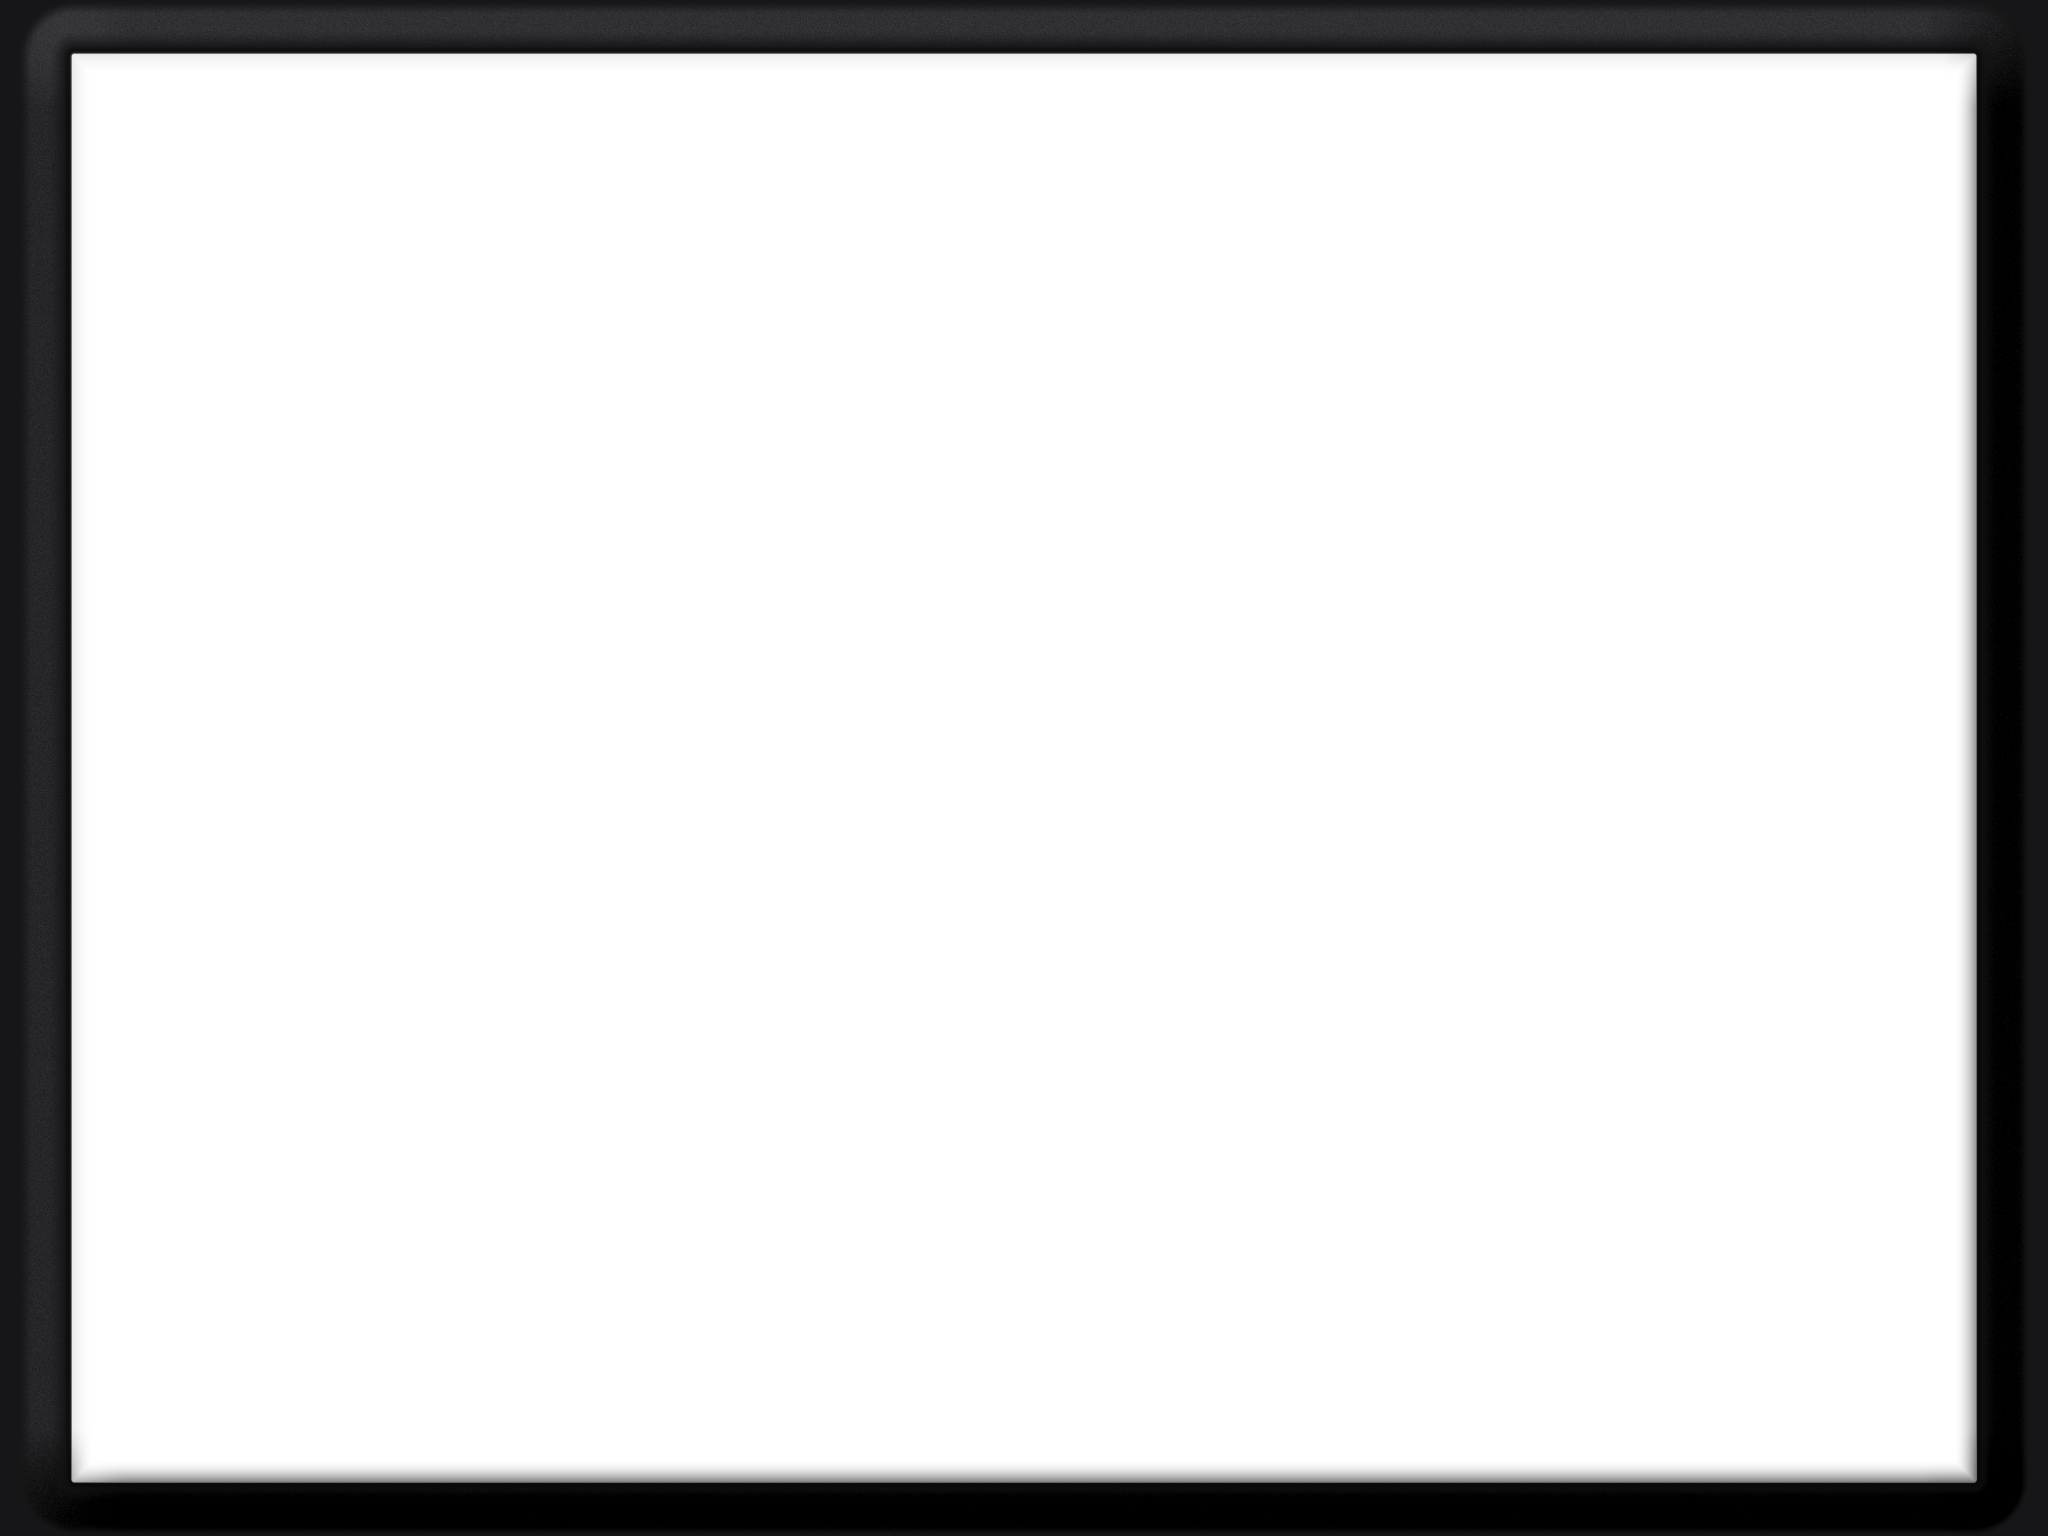
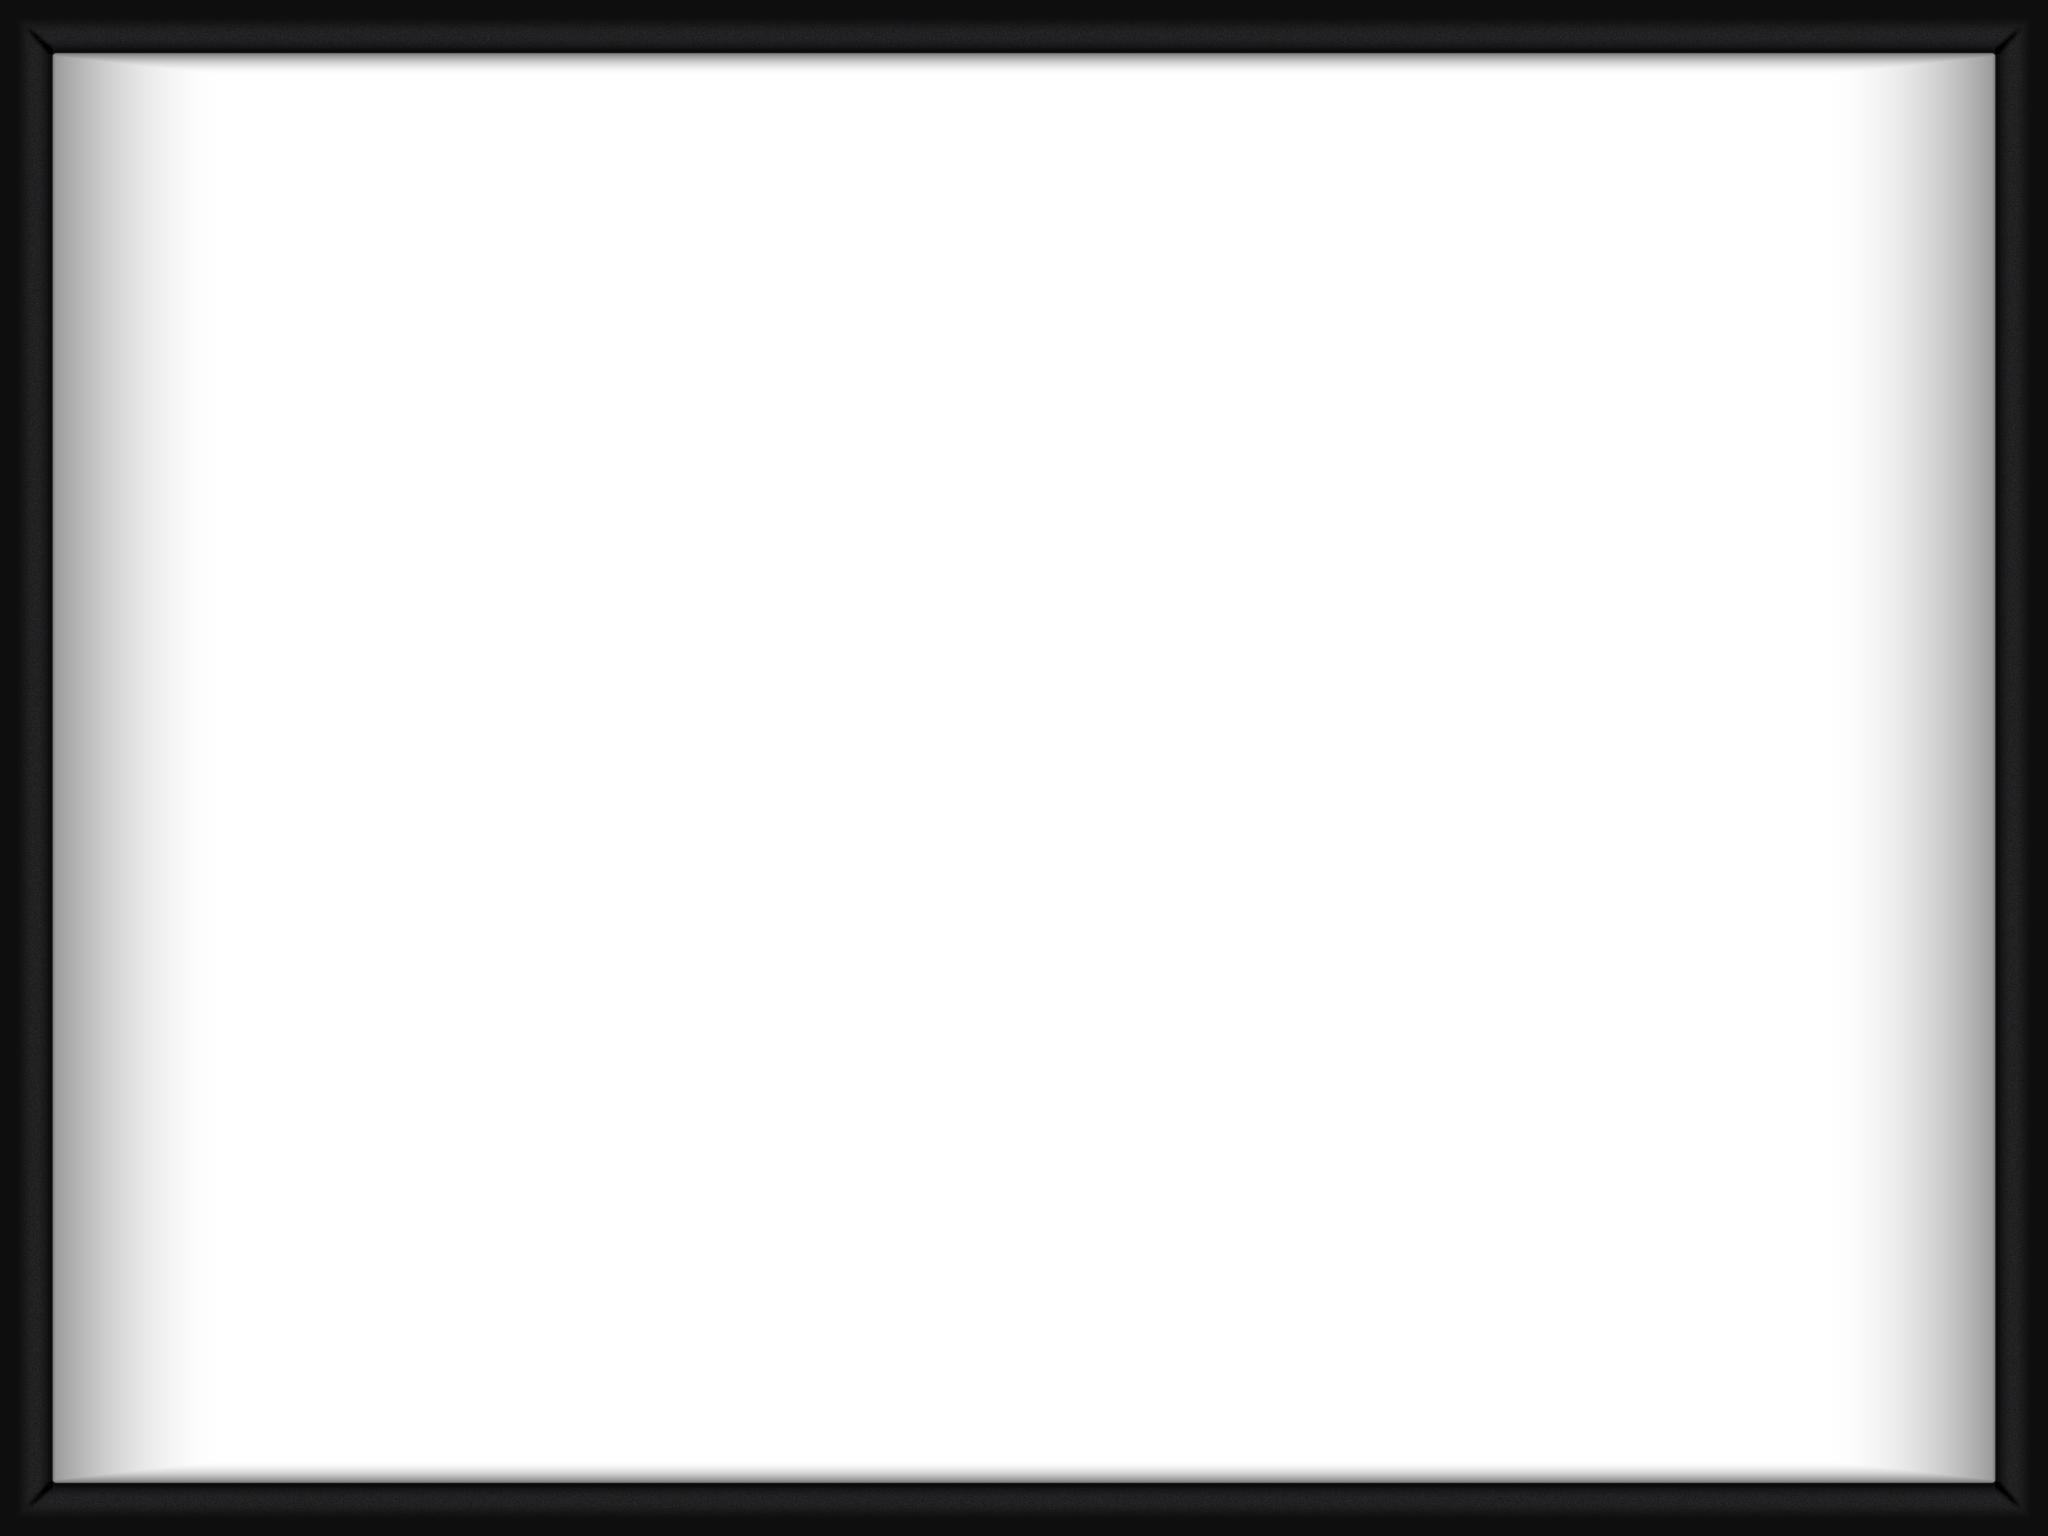
CRT bezel art: flat picture-frame + reflection edge-band fix (rt64 3e2f676)
- Regenerated assets/crt_bezel.png: uniform brightness, inner bevel slightly brighter than the outer frame, mitred-corner seam on the inner bevel only, true 90-degree inner-bevel corners (box-distance profile), asymmetric inset + wider L/R recess shadow for a deeper-set picture.
- Bumps rt64 to the reflection-band fix.
- RE-NOTES: art-refinement round + the outer-band reflection fix.

Changed region(s): [[0.0, 0.0, 1.0, 1.0]]

diff --git a/docs/RE-NOTES.md b/docs/RE-NOTES.md
@@ -1511,7 +1511,22 @@ an **overlay-image** bezel composited in the CRT present pass.
   the corners", "reflection not visible", "more diffuse". Change one thing,
   re-capture, confirm. Env `WR64_CRT_BEZEL=1` now force-ENABLES too (was 0-only)
   so autonomous runs can isolate it regardless of saved config.
-- OPEN: the user isn't fully happy with the PNG art itself yet (deferred).
+- **Art refinement round (2026-07-24):** the user iterated the PNG toward a
+  flat picture-frame — uniform brightness all around (directional bevel light
+  REMOVED, it read as "brighter top-left"), inner bevel a touch brighter than
+  the outer flat, mitred-corner seam confined to the inner bevel only, and the
+  inner bevel's outer corners made TRUE 90° by driving the bevel profile off a
+  BOX (Chebyshev max) distance instead of the euclidean SDF (euclidean rounds
+  corners). Asymmetric inset (INSET_X 0.026 < INSET_Y 0.035) + a wider L/R
+  inner cast-shadow makes the picture read as recessed/deeper on the sides.
+- **Reflection sampled the extreme edge = wrong (2026-07-24 fix):** with the CRT
+  curve or a pillarboxed menu the very edge of the presented rect is often black
+  (curved-out corner / bar), so the frame reflected BLACK. Fix (user's idea):
+  sample the reflection from the OUTER ~10 % band of the game image, not the
+  edge — inset the sample point ~6 % inward (`rTubeInset = 0.06 + 0.88*rTube`);
+  the wide EdgeGlow blur then averages that real edge band. Blur widened over
+  several rounds (rings out to ~1000 px) for a very diffuse wash.
+- OPEN: the user still wants the PNG art refined further (deferred).
 
 ## macOS .app bundle (2026-07-22)
 
